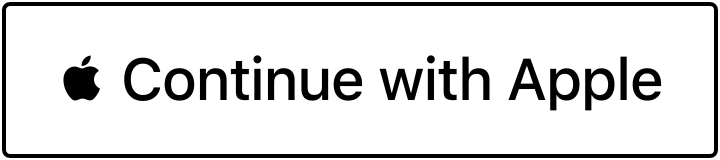
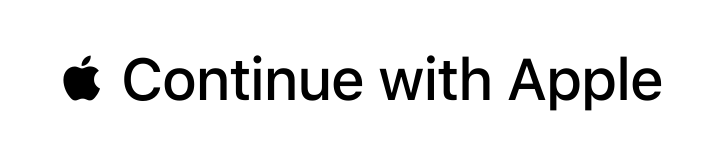
Refine OAuth button styling

Changed region(s): [[0.0, 0.0, 1.0, 1.0]]

diff --git a/app/globals.css b/app/globals.css
@@ -478,7 +478,7 @@ kbd { display: inline-flex; min-width: 20px; height: 19px; align-items: center; 
 .oauth-options { display: grid; grid-template-columns: 1fr 1fr; gap: 8px; margin-bottom: 15px; }
 .oauth-provider-button { display: block; width: 180px; height: 40px; justify-self: center; padding: 0; overflow: hidden; border: 0; border-radius: 4px; background: transparent; transition: box-shadow .16s ease, transform .16s ease, opacity .16s ease; }
 .oauth-provider-button img { display: block; width: 180px; height: 40px; }
-.oauth-provider-button:hover:not(:disabled) { box-shadow: 0 4px 12px rgba(39,37,45,.1); transform: translateY(-1px); }
+.oauth-provider-button:hover:not(:disabled) { box-shadow: 0 5px 14px rgba(74,67,133,.12); transform: translateY(-1px); }
 .oauth-provider-button:focus-visible { outline: 2px solid rgba(98,89,223,.35); outline-offset: 2px; }
 .oauth-provider-button:disabled { cursor: wait; opacity: .55; }
 .auth-divider { display: flex; align-items: center; gap: 9px; margin-bottom: 15px; color: #aaa7ad; font-size: 7.5px; }

diff --git a/public/oauth/README.md b/public/oauth/README.md
@@ -1,6 +1,6 @@
 # OAuth button assets
 
-- `google-signin-light.png` is Google's pre-approved Android + Web light rectangular button from the official Sign in with Google asset bundle.
-- `apple-continue-white.png` is generated by Apple's official Sign in with Apple button endpoint with a white background, border, `continue` label, 180 × 40 point size, 4 point corner radius, and 4× scale.
+- `google-signin-light.png` is Google's pre-approved Android + Web neutral rectangular button from the official Sign in with Google asset bundle. This approved variant has no outline.
+- `apple-continue-white.png` is generated by Apple's official Sign in with Apple button endpoint with a white background, no border, `continue` label, 180 × 40 point size, 4 point corner radius, and 4× scale.
 
 Do not redraw, recolor, crop, or change the aspect ratio of these files. Replace them only with updated provider-approved assets.
